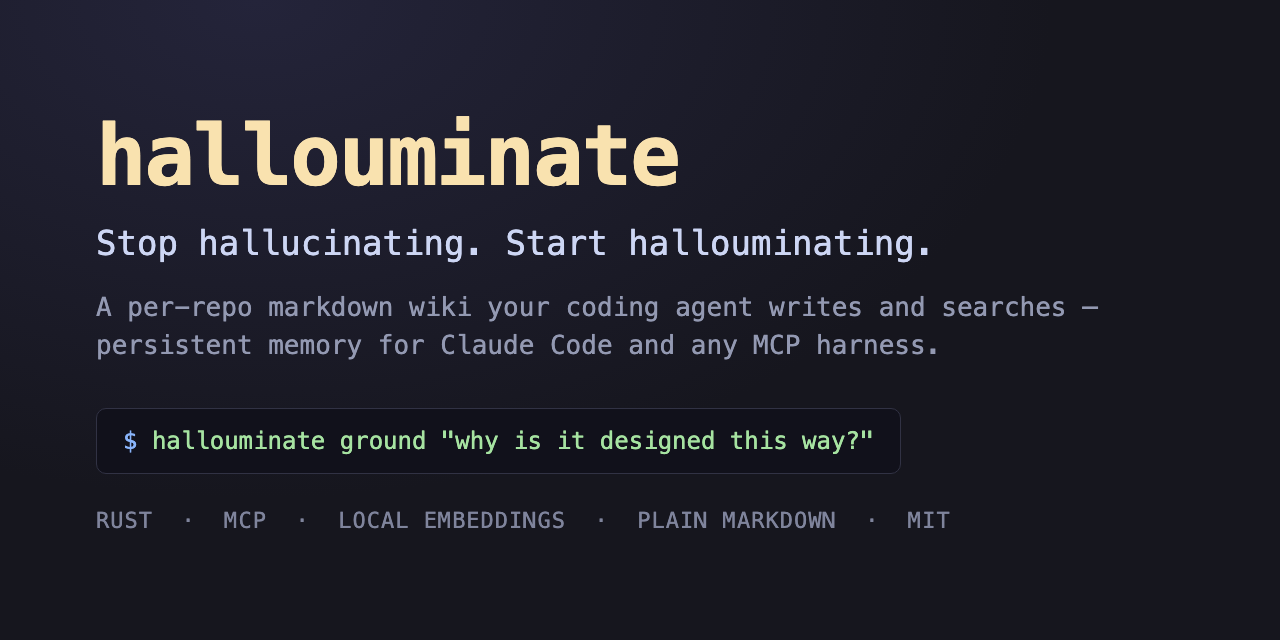
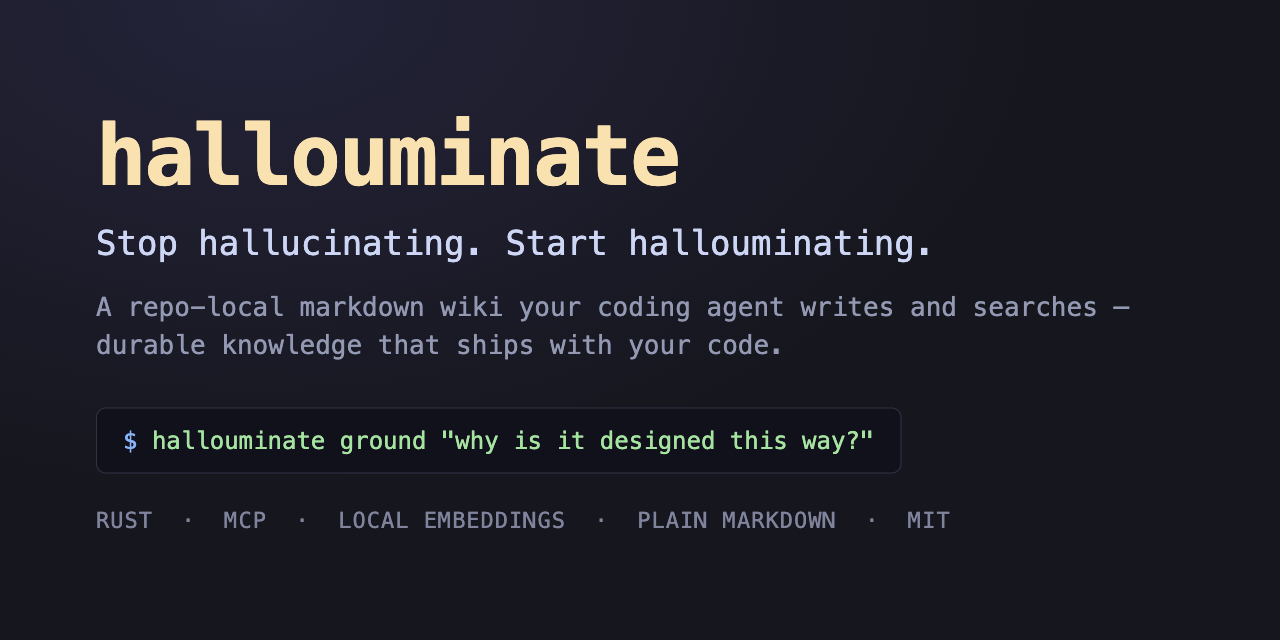
docs: sharpen launch positioning and comparisons

Changed region(s): [[0.0625, 0.4688, 0.875, 0.5625]]

diff --git a/docs/assets/social-preview.html b/docs/assets/social-preview.html
@@ -1,6 +1,5 @@
-
 <!doctype html>
-<html><head><meta charset="utf-8"><style>
+<html><head><meta charset="utf-8"><link rel="icon" href="data:,"><style>
   * { margin: 0; padding: 0; box-sizing: border-box; }
   body {
     width: 1280px; height: 640px; overflow: hidden;
@@ -25,7 +24,7 @@
 <body>
   <div class="name">hallouminate</div>
   <div class="tagline">Stop hallucinating. Start hallouminating.</div>
-  <div class="sub">A per-repo markdown wiki your coding agent writes and searches &mdash; persistent memory for Claude Code and any MCP harness.</div>
+  <div class="sub">A repo-local markdown wiki your coding agent writes and searches &mdash; durable knowledge that ships with your code.</div>
   <div class="term"><span class="p">$</span> hallouminate ground "why is it designed this way?"</div>
   <div class="chips">RUST&nbsp;&nbsp;&middot;&nbsp;&nbsp;MCP&nbsp;&nbsp;&middot;&nbsp;&nbsp;LOCAL EMBEDDINGS&nbsp;&nbsp;&middot;&nbsp;&nbsp;PLAIN MARKDOWN&nbsp;&nbsp;&middot;&nbsp;&nbsp;MIT</div>
 </body></html>

diff --git a/README.md b/README.md
@@ -10,57 +10,33 @@
 [![PRs welcome](https://img.shields.io/badge/PRs-welcome-brightgreen?style=flat-square)](https://github.com/paulnsorensen/hallouminate/pulls)
 [![Buy Me a Coffee](https://img.shields.io/badge/Buy_Me_a_Coffee-FFDD00?style=flat-square&logo=buymeacoffee&logoColor=black)](https://www.buymeacoffee.com/paulnsorensen)
 
-**Stop hallucinating. Start hallouminating.**
+**Persistent, repo-local knowledge for coding agents.**
 
-> _"The wiki must flow."_
+Hallouminate gives your coding agent a wiki it can write, search, review, and
+commit alongside the code. The markdown files remain the source of truth;
+Hallouminate builds a derived local index so agents can retrieve the right
+context without rereading the entire repository.
 
-![hallouminate demo — ground a question against the repo wiki](docs/assets/demo.gif)
+![Terminal demo: Hallouminate answers a design question from the repository wiki, then shows the underlying markdown files](docs/assets/demo.gif)
 
-**What it is**
+- **Human-owned:** ordinary markdown in `.hallouminate/wiki/`, readable and
+  editable with any text editor.
+- **Agent-native:** a focused MCP surface for searching, reading, and safely
+  updating the wiki.
+- **Local-first:** embeddings and search run locally; no hosted service is
+  required.
+- **Repo-aware:** each repository gets its own wiki, with optional union search
+  across repositories.
 
-- A markdown corpus indexer for LLMs to build and query their own per-repo wikis.
-- Stores markdown verbatim on disk — the filesystem is the source of truth.
-- Embeds content with fastembed and indexes the embeddings in LanceDB, refreshed automatically on write (`add_markdown`) or in bulk (`hallouminate index`).
-- Exposes a small MCP surface (`add_markdown` / `read_markdown` / `delete_markdown` / `ground`) so an LLM can author and search a per-repo knowledge base without leaving its agent loop.
-- Can index code files (`.rs`, `.toml`, …) as text for semantic search too.
+Hallouminate is not a code-intelligence engine: it can index source files as
+text, but it does not parse symbols, types, or call graphs. Pair it with your
+code-search tools; use Hallouminate for the durable knowledge those tools
+cannot infer—the architecture, conventions, gotchas, and reasons behind a
+design.
 
-**What it is not**
-
-- Not a code intelligence tool — no structural analysis of code, even when code files are indexed; it's a wiki indexer that happens to tolerate code.
-
-## How it compares
-
-| Tool | Stores knowledge as | Human-readable + git-committable | Local by default | MCP | Scope | License |
-| --- | --- | --- | --- | --- | --- | --- |
-| **hallouminate** | Markdown files, embedded (fastembed) and indexed in LanceDB | Yes | Yes | Native MCP server | Per-repo wiki (`repo:<name>:wiki`), plus cross-repo union search | MIT |
-| **Basic Memory** | Markdown files, indexed via local SQLite (optional Postgres for cloud sync) | Yes | Yes | Native MCP server | Per-project, with multi-project management | AGPL-3.0 |
-| **mem0** | Vector DB (Qdrant by default) + optional graph store | No | No — cloud by default (OpenAI models) | MCP support via a self-hosted server; not one canonical native binary | Multi-tier (User/Session/Agent), not repo-scoped | Apache-2.0 |
-| **claude-mem** | SQLite (FTS5) + Chroma vector DB | No | Yes (no cloud API key required for compression) | Not a standalone MCP server — a Claude Code plugin exposing 4 MCP tools | Per-session, surfaced cross-session | Apache-2.0 |
-| **Letta** | Markdown + YAML frontmatter, git-committed memory filesystem (MemFS) | Yes | Not required — local (Ollama/LM Studio/llama.cpp) or cloud | — [1] | Per-agent (MemFS scoped to `$MEMORY_DIR`) | Apache-2.0 (legacy repo) [1] |
-| **@modelcontextprotocol/server-memory** | Single JSONL file holding a JSON entity/relation graph | Yes (diffable JSONL, not prose) | Yes — no embeddings, no LLM call | Official reference native MCP server | Global/user-level by convention, no repo scoping concept | MIT |
-| **Graphiti** | Temporal knowledge graph (Neo4j / FalkorDB / Amazon Neptune) | No | Defaults to OpenAI, but supports local LLMs (Ollama, vLLM, llama.cpp) | Native MCP server, ships in-repo | Per-entity/per-user context graphs, not repo-scoped | Apache-2.0 |
-
-Basic Memory is the closest analog — both store markdown on disk as the
-source of truth and ship a native MCP server. hallouminate's differences:
-local vector search (fastembed + LanceDB) instead of Basic Memory's SQLite
-full-text/graph index, MIT instead of AGPL-3.0, and a Rust single binary
-with a background daemon instead of a Python package.
-
-[1] Letta's native MCP exposure is unconfirmed — the dedicated MCP doc page
-404'd at research time. Apache-2.0 is confirmed for the legacy `letta-ai/letta`
-repo; the current `letta-ai/letta-code` repo's license was not independently
-checked.
-
-Sources: [basicmachines-co/basic-memory](https://github.com/basicmachines-co/basic-memory),
-[modelcontextprotocol/servers](https://github.com/modelcontextprotocol/servers/tree/main/src/memory),
-[getzep/graphiti](https://github.com/getzep/graphiti)
-
-A long-lived local daemon owns the LanceDB ground directory, per-corpus
-mutation locks, and config resolution. The CLI and the stdio MCP server
-both talk to it over a Unix domain socket — one owner, no cross-process
-LanceDB races.
-
-> 📖 **Full documentation:** <https://cheeselord.dev/hallouminate/>
+**[Install](#install)** · **[First run](#first-run)** ·
+**[Full documentation](https://cheeselord.dev/hallouminate/)** ·
+**[How it compares](https://cheeselord.dev/hallouminate/comparison.html)**
 
 ## Install
 
@@ -125,19 +101,6 @@ none is running) — this is what an MCP client launches:
 ```sh
 hallouminate serve
 ```
-
-## Install
-
-```sh
-# Prebuilt binary, no Rust toolchain required:
-npx hallouminate --help
-
-# Or from crates.io:
-cargo install hallouminate
-```
-
-The npm package is a thin shim — its postinstall step downloads the
-matching prebuilt binary for your platform from the GitHub release.
 
 From a source checkout, run subcommands through cargo:
 

diff --git a/docs/src/comparison.md b/docs/src/comparison.md
@@ -1,0 +1,60 @@
+# How hallouminate compares
+
+Choose Hallouminate when the knowledge should live with a code repository as
+reviewable markdown. Choose an agent-memory or knowledge-graph system when the
+primary unit is a user, conversation, agent, or evolving world model instead.
+
+This is a comparison of product shape, not a benchmark. Features change; the
+links below point to each project's own documentation and were last checked on
+2026-07-31.
+
+## Start with the job
+
+| If you need… | Start with… | Why |
+| --- | --- | --- |
+| Architecture decisions, conventions, and gotchas committed with a repository | **Hallouminate** | The wiki is ordinary markdown under the repo; the search index is derived and local. |
+| A local-first personal or project knowledge base with a richer note schema and knowledge graph | [Basic Memory](https://github.com/basicmachines-co/basic-memory) | Markdown remains central, with observations, relations, project management, and optional cloud sync. |
+| A minimal entity-and-relation memory example for experimenting with MCP | [`@modelcontextprotocol/server-memory`](https://github.com/modelcontextprotocol/servers/tree/main/src/memory) | A small reference server stores a JSONL knowledge graph without embeddings. |
+| Application-level memory scoped to users, agents, sessions, or runs | [Mem0](https://github.com/mem0ai/mem0) | It is a memory layer and SDK/server for applications rather than a repo documentation workflow. |
+| Automatic capture and recall of coding-agent sessions | [claude-mem](https://github.com/thedotmack/claude-mem) | It records session activity, compresses it, and recalls relevant context across sessions. |
+| Temporal facts and relationships extracted into a queryable graph | [Graphiti](https://github.com/getzep/graphiti) | It models episodes, entities, and time-aware relationships over a graph database. |
+
+## Hallouminate and Basic Memory
+
+Basic Memory is the closest match in this list. Both are local-first, expose
+MCP tools, and keep human-readable markdown as durable data. The difference is
+where each product draws its boundary:
+
+- **Hallouminate is repository infrastructure.** A wiki is conventionally
+  stored at `.hallouminate/wiki/`, can be reviewed in the same pull request as
+  the code, and is searched through repo-aware corpora. Its markdown has no
+  required note schema.
+- **Basic Memory is a knowledge-management system.** Its markdown format adds
+  entities, observations, relations, and frontmatter; it supports multiple
+  projects and optional cloud sync. Its current local search also includes
+  semantic search, so “Hallouminate has vectors while Basic Memory has only
+  full-text search” is not a meaningful distinction.
+
+The practical choice is therefore workflow and scope, not a claim that one
+search stack is universally better.
+
+## What Hallouminate deliberately does not do
+
+- It does not capture every agent action or conversation automatically.
+- It does not decide which facts deserve to become durable documentation; the
+  agent or human author does.
+- It does not extract a temporal knowledge graph from conversations or events.
+- It does not provide symbol, type, or call-graph analysis for source code.
+- It does not require a hosted account or make cloud sync part of the storage
+  model.
+
+These constraints keep the contract small: markdown is authoritative, the
+index is disposable, and a repository can carry its own durable knowledge
+without depending on one agent vendor.
+
+## Verification notes
+
+The table intentionally avoids star counts, performance claims, and exhaustive
+feature matrices. Those age quickly and can turn different product categories
+into a misleading checklist. For implementation details, verify against the
+linked upstream documentation before making an adoption decision.

diff --git a/docs/src/intro.md b/docs/src/intro.md
@@ -23,6 +23,8 @@ races. See [Architecture](./architecture.md) for the full picture.
 
 - **[Installation](./install.md)** — install the binary and register the MCP
   server with your agent.
+- **[How it compares](./comparison.md)** — choose between repo-local markdown,
+  agent memory, and knowledge-graph tools.
 - **[CLI reference](./cli.md)** — every subcommand and its flags.
 - **[MCP surface](./mcp.md)** — the ten tools an LLM calls to author and
   search wikis.

diff --git a/CHANGELOG.md b/CHANGELOG.md
@@ -7,6 +7,8 @@ GitHub release notes for this project ship only install/download links, not
 change descriptions, so entries below are condensed from merged PR titles
 for each release window.
 
+## [Unreleased](https://github.com/paulnsorensen/hallouminate/compare/v0.5.0...HEAD)
+
 ## [0.5.0](https://github.com/paulnsorensen/hallouminate/releases/tag/v0.5.0) - 2026-07-19
 
 ### Added

diff --git a/docs/src/SUMMARY.md b/docs/src/SUMMARY.md
@@ -3,6 +3,7 @@
 [Introduction](./intro.md)
 
 - [Installation](./install.md)
+- [How it compares](./comparison.md)
 - [CLI reference](./cli.md)
 - [MCP surface](./mcp.md)
 - [Configuration](./config.md)
